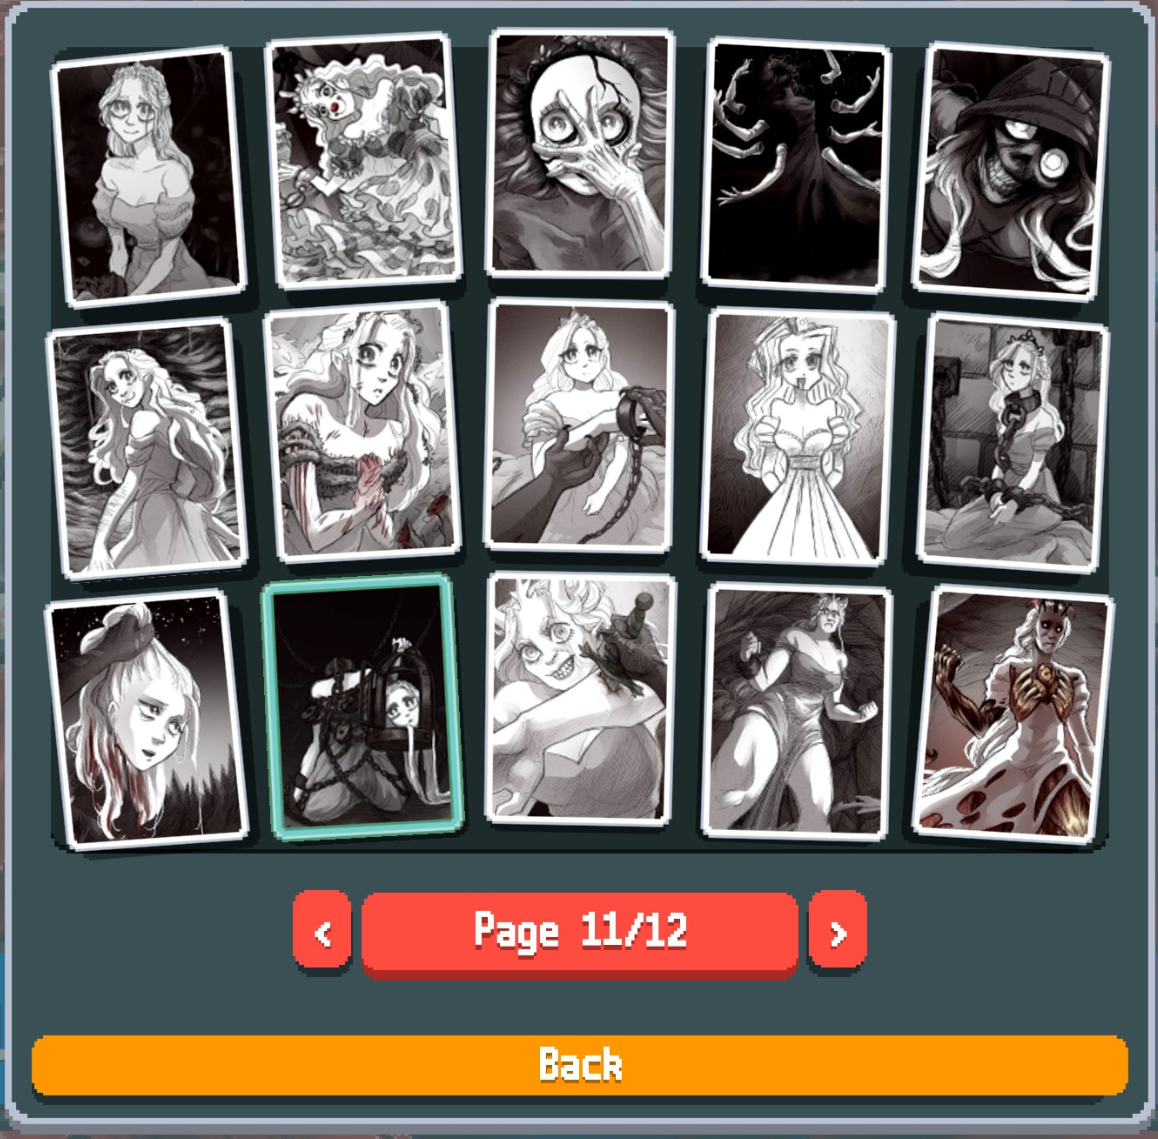
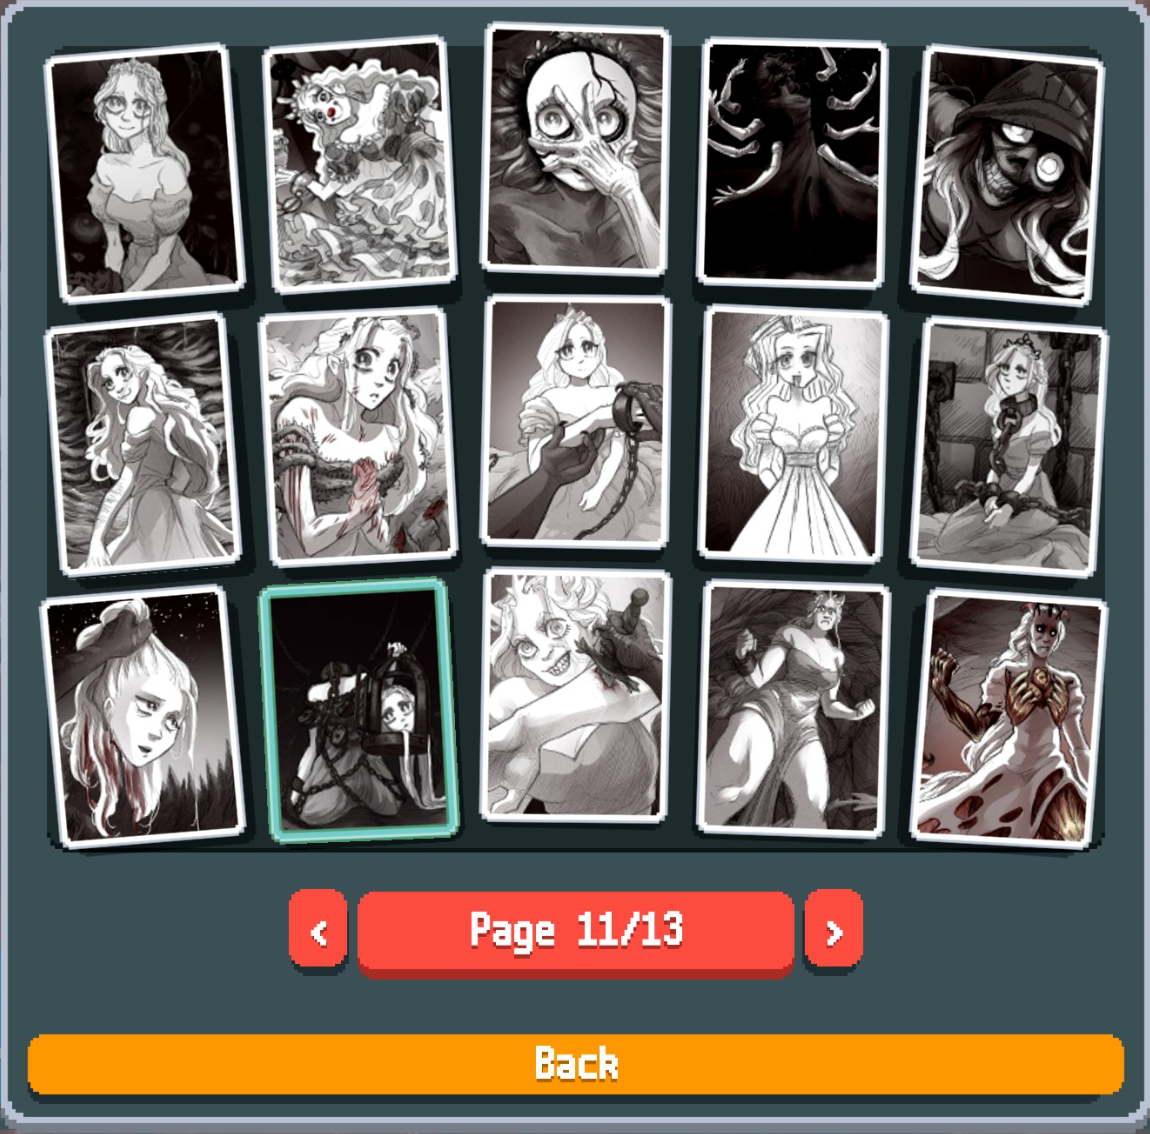
Add the Networked Wild

Changed region(s): [[0.0, 0.0, 1.0, 1.0], [0.6087, 0.7099, 0.6391, 0.7407], [0.6087, 0.0309, 0.6391, 0.0617]]

diff --git a/README.md b/README.md
@@ -1,9 +1,11 @@
 <img src=".github/thumbnail.png" alt="image" width="800"/>
 
 ## Content
-This Slay The Princess themed Balatro mod adds 30 Jokers, some of which introduce new mechanics, a new deck, and more!
+This Slay The Princess themed Balatro mod adds 31 Jokers, some of which introduce new mechanics, a new deck, and new Booster Packs!
 
 <img src=".github/jokers1.png" alt="image" width="320"/><img src=".github/jokers2.png" alt="image" width="320"/>
+
+<img src=".github/jokers3.png" alt="image" width="320"/><img src=".github/deck.png" alt="image" width="320"/>
 
 I have some ideas to expand this mod with (Vouchers, a new Consumable type, The Long Quiet Deck, and several more...), but no promises as life can get in the way.
 

diff --git a/.github/todo.md b/.github/todo.md
@@ -5,5 +5,4 @@
 # Balance changes needed:
 Shifting Mound is too weak for a Legendary
 Apotheosis is (potentially?) too strong
-Not enough econ
 Fury and Mutual almost same mechanic
